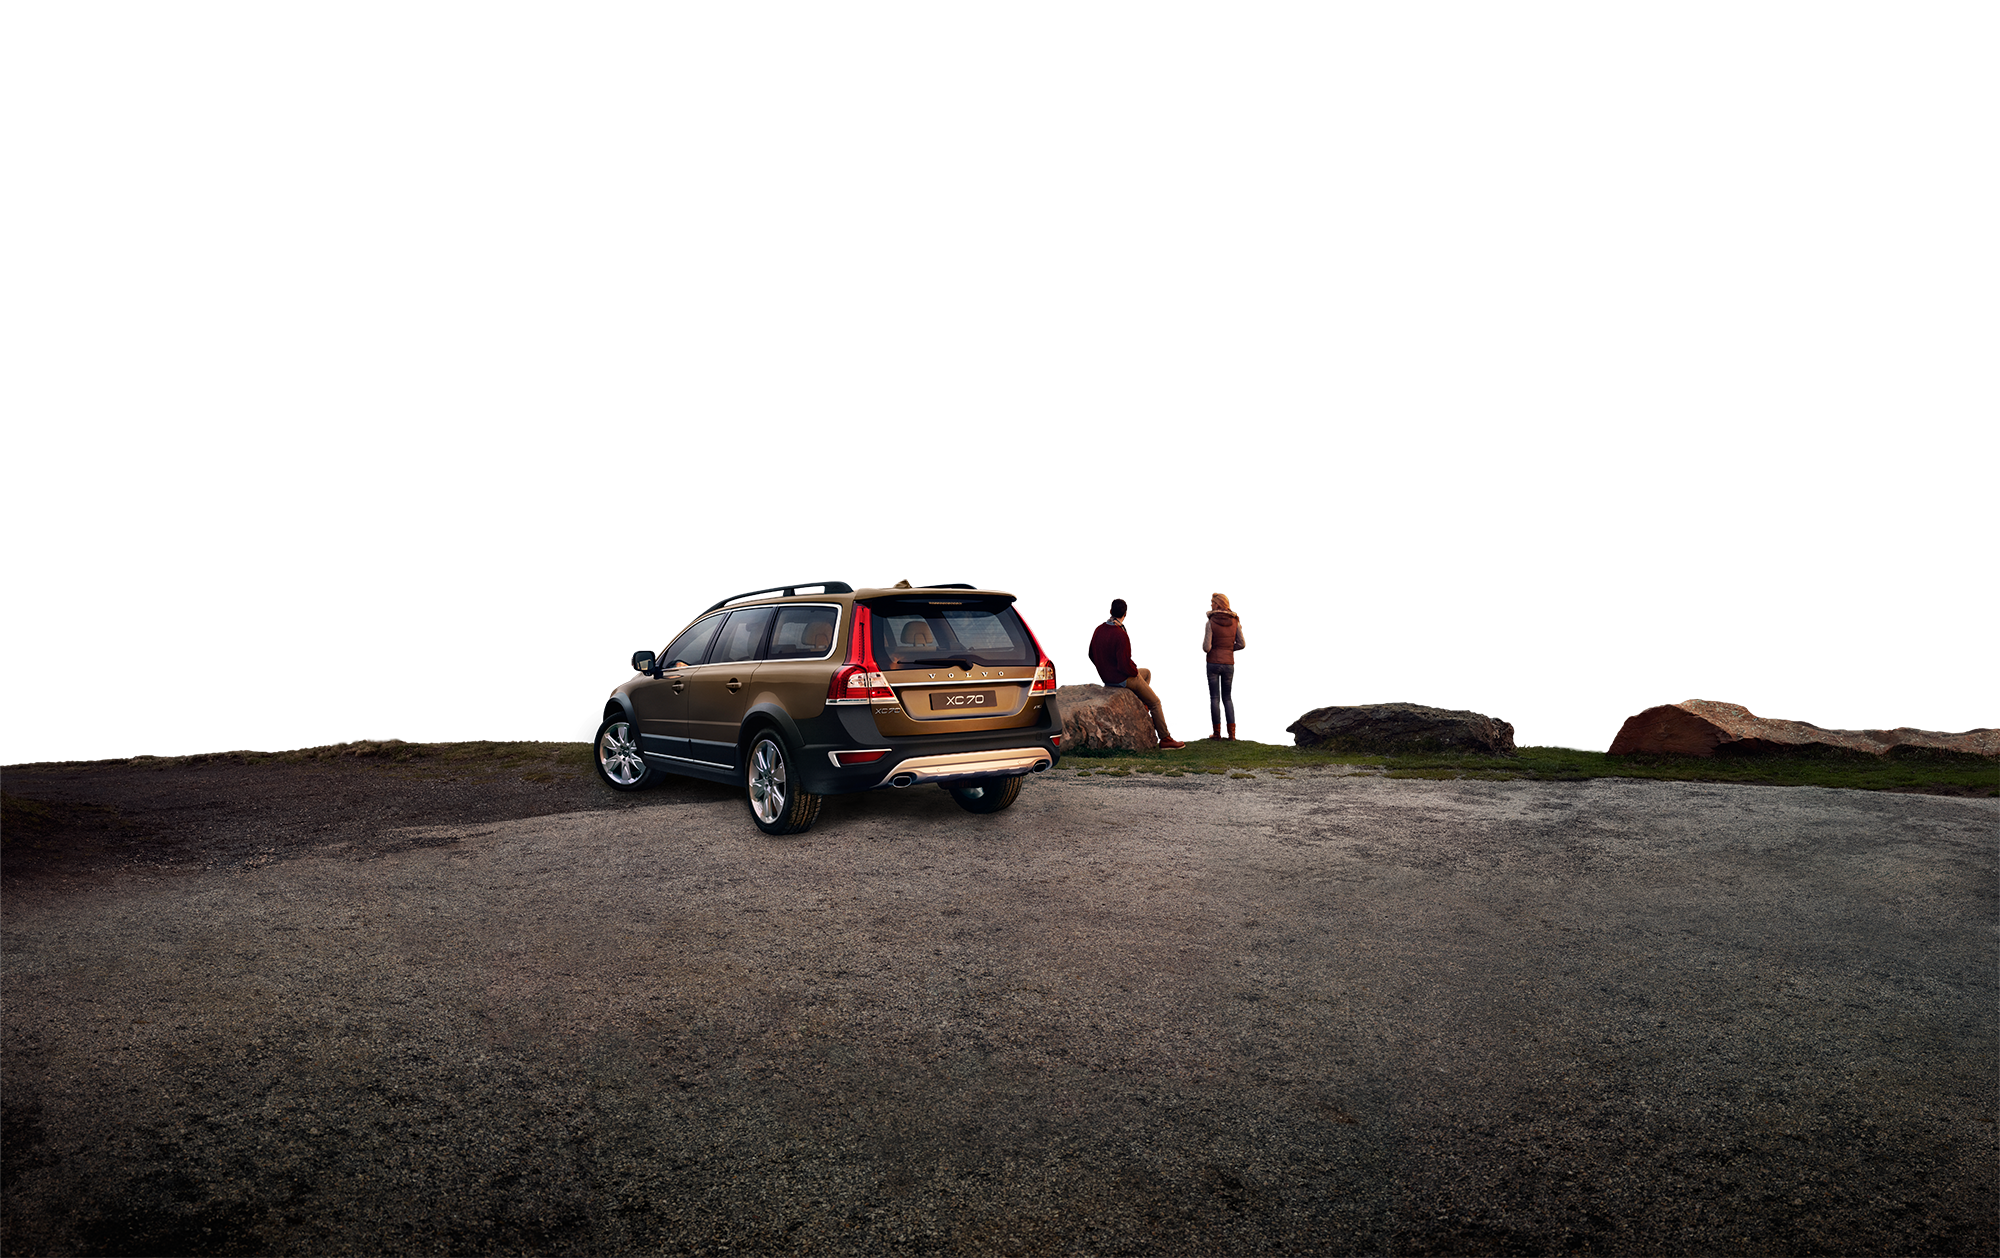
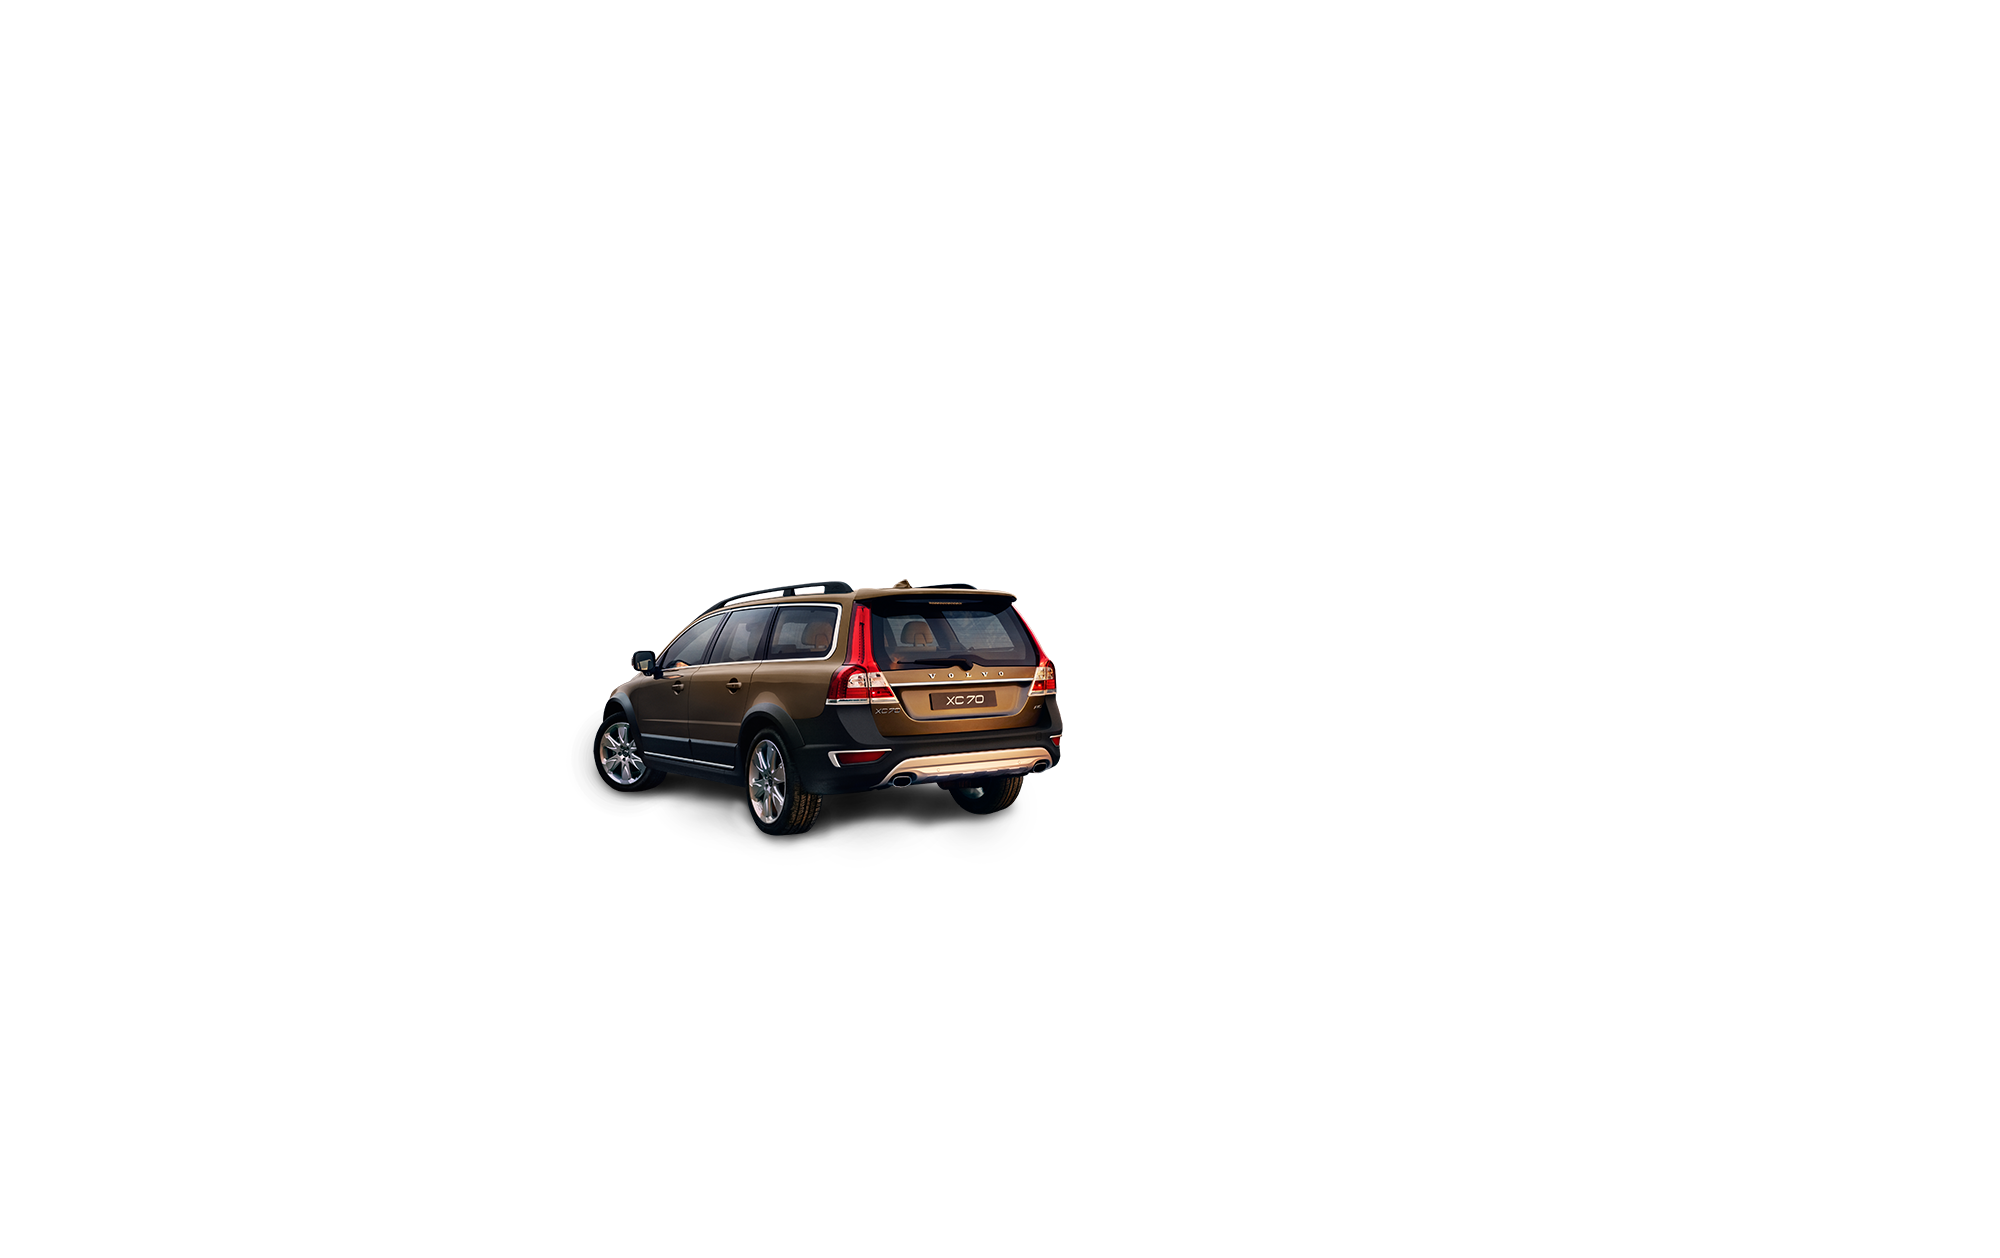
Add layers

diff --git a/assets/css/app.min.css b/assets/css/app.min.css
@@ -1,1 +1,1 @@
-html body{position:absolute;width:100%;height:100%}html body #app-header{padding:25px 0 0 0}html body #app-header #app-name{margin:0}html body #app-header #app-user{width:1400px;margin:20px auto 0 auto}html body #app-header #app-user p{margin:0}html body #kinect-parallax{position:relative;margin:50px auto 0 auto;max-width:1400px;max-height:880px}html body #kinect-parallax #kinect-parallax-layer-1{top:450px;left:-300px;width:2000px;height:679px;z-index:20}html body #kinect-parallax #kinect-parallax-layer-2{top:10px;left:-300px;width:2000px;height:578px;z-index:12}html body #kinect-parallax #kinect-parallax-layer-2 img{position:absolute;top:-100px}html body #kinect-parallax #kinect-parallax-layer-3{top:300px;left:-171px;width:1741px;height:347px;z-index:5}html body #kinect-parallax #kinect-parallax-layer-4{top:-200px;left:-300px;width:2000px;height:1258px;z-index:1}html body #kinect-parallax .animated-layer{position:absolute;top:0;left:-300px;width:1200px;height:300px;z-index:20}html body #kinect-parallax .animated-layer canvas{width:100%;height:100%}html body #kinect-parallax .cursor{display:none;position:absolute;width:15px;height:15px;z-index:999;top:0;left:50%}html body #debug{width:1400px;margin:auto}html body #debug table{width:100%}html body #debug table tr{width:100%}html body #debug table tr th,html body #debug table tr td{width:33.333333333333336%;text-align:center}html body #sun-informations img,html body .popin img{display:blocK;width:100%;max-width:300px;margin:auto}html body .overlay{position:fixed;top:0;left:0;width:100%;height:100%;z-index:999}html body #app-header #app-name{text-align:center}html body #kinect-parallax{border-radius:5px}html body #kinect-parallax .cursor#cursor{background:cyan}html body #kinect-parallax .cursor#cursor.active{background:magenta}html body #kinect-parallax .cursor#cursor.hover{background:magenta}html body .popin p{font-size:14px;text-align:justify}html body .overlay{background:#292929;opacity:.75}
+html body{position:absolute;width:100%;height:100%}html body #app-header{padding:25px 0 0 0}html body #app-header #app-name{margin:0}html body #app-header #app-user{width:1400px;margin:20px auto 0 auto}html body #app-header #app-user p{margin:0}html body #kinect-parallax{position:relative;margin:50px auto 0 auto;max-width:1400px;max-height:880px;min-height:880px}html body #kinect-parallax #kinect-parallax-layer-1{top:450px;left:265px;width:497px;height:289px;z-index:21}html body #kinect-parallax #kinect-parallax-layer-2{top:450px;left:-300px;width:2000px;height:666px;z-index:20}html body #kinect-parallax #kinect-parallax-layer-3{top:400px;left:-295px;width:933px;height:223px;z-index:13}html body #kinect-parallax #kinect-parallax-layer-4{top:-100px;left:800px;width:857px;height:778px;z-index:12}html body #kinect-parallax #kinect-parallax-layer-5{top:325px;left:-171px;width:1741px;height:347px;z-index:5}html body #kinect-parallax #kinect-parallax-layer-6{top:-200px;left:-300px;width:2000px;height:1258px;z-index:1}html body #kinect-parallax .animated-layer{position:absolute;top:0;left:-300px;width:1200px;height:300px;z-index:20}html body #kinect-parallax .animated-layer canvas{width:100%;height:100%}html body #kinect-parallax .cursor{display:none;position:absolute;width:15px;height:15px;z-index:999;top:0;left:50%}html body #debug{width:1400px;margin:auto}html body #debug table{width:100%}html body #debug table tr{width:100%}html body #debug table tr th,html body #debug table tr td{width:33.333333333333336%;text-align:center}html body #sun-informations img,html body .popin img{display:blocK;width:100%;max-width:300px;margin:auto}html body .overlay{position:fixed;top:0;left:0;width:100%;height:100%;z-index:999}html body #app-header #app-name{text-align:center}html body #kinect-parallax{border-radius:5px}html body #kinect-parallax .cursor#cursor{background:cyan}html body #kinect-parallax .cursor#cursor.active{background:magenta}html body #kinect-parallax .cursor#cursor.hover{background:magenta}html body .popin p{font-size:14px;text-align:justify}html body .overlay{background:#292929;opacity:.75}

diff --git a/index.html b/index.html
@@ -26,16 +26,22 @@
 		<section id='kinect-parallax' class='kinect-parallax-viewport'>
 			<!-- .kinect-parallax-laery are our layers, just set them a width, a height, and a z-index ! -->
 			<div id='kinect-parallax-layer-1' class='kinect-parallax-layer'>
-				<img src='assets/images/layers/layer-1bis.png' alt='Sun'>
+				<img src='assets/images/layers/layer-1bis.png' alt='Car'>
 			</div>
 			<div id='kinect-parallax-layer-2' class='kinect-parallax-layer'>
-				<img src='assets/images/layers/layer-2bis.png' alt='Moutains'>
+				<img src='assets/images/layers/layer-2bis.png' alt='Front'>
 			</div>
 			<div id='kinect-parallax-layer-3' class='kinect-parallax-layer'>
-				<img src='assets/images/layers/layer-3bis.png' alt='Hill'>
+				<img src='assets/images/layers/layer-3bis.png' alt='Left moutains'>
 			</div>
 			<div id='kinect-parallax-layer-4' class='kinect-parallax-layer'>
-				<img src='assets/images/layers/layer-4bis.png' alt='Wood'>
+				<img src='assets/images/layers/layer-4bis.png' alt='Right moutains'>
+			</div>
+			<div id='kinect-parallax-layer-5' class='kinect-parallax-layer'>
+				<img src='assets/images/layers/layer-5bis.png' alt='Background moutains'>
+			</div>
+			<div id='kinect-parallax-layer-6' class='kinect-parallax-layer'>
+				<img src='assets/images/layers/layer-6bis.png' alt='Sky and sun'>
 			</div>
 			<!--
 			<div id='kinect-parallax-layer-5' class='kinect-parallax-layer animated-layer'>

diff --git a/assets/less/layout.less b/assets/less/layout.less
@@ -24,29 +24,49 @@ html {
 			margin: 50px auto 0 auto;
 			max-width: @appWidth;
 			max-height: @appHeight;
+			min-height: @appHeight;
 			#kinect-parallax-layer-1 {
 				top: 450px;
-				left: -300px;
-				width: 2000px;
-				height: 679px;
-				z-index: 20;
+				left: 265px;
+				width: 497px;
+				height: 289px;
+				z-index: 21;
 				img {
 
 				}
 			}
 			#kinect-parallax-layer-2 {
-				top: 10px;
+				top: 450px;
 				left: -300px;
 				width: 2000px;
-				height: 578px;
-				z-index: 12;
+				height: 666px;
+				z-index: 20;
 				img {
-					position: absolute;
-					top: -100px;
+
 				}
 			}
 			#kinect-parallax-layer-3 {
-				top: 300px;
+				top: 400px;
+				left: -295px;
+				width: 933px;
+				height: 223px;
+				z-index: 13;
+				img {
+
+				}
+			}
+			#kinect-parallax-layer-4 {
+				top: -100px;
+				left: 800px;
+				width: 857px;
+				height: 778px;
+				z-index: 12;
+				img {
+
+				}
+			}
+			#kinect-parallax-layer-5 {
+				top: 325px;
 				left: -171px;
 				width: 1741px;
 				height: 347px;
@@ -55,7 +75,7 @@ html {
 
 				}
 			}
-			#kinect-parallax-layer-4 {
+			#kinect-parallax-layer-6 {
 				top: -200px;
 				left: -300px;
 				width: 2000px;

diff --git a/assets/js/app.js b/assets/js/app.js
@@ -360,7 +360,7 @@ jQuery(document).on('ready', function () {
 			body: $('body'),
 			viewport: $('#kinect-parallax'),
 			enable: {
-				parallax: true,
+				parallax: false,
 				hand: false
 			}
 		});
